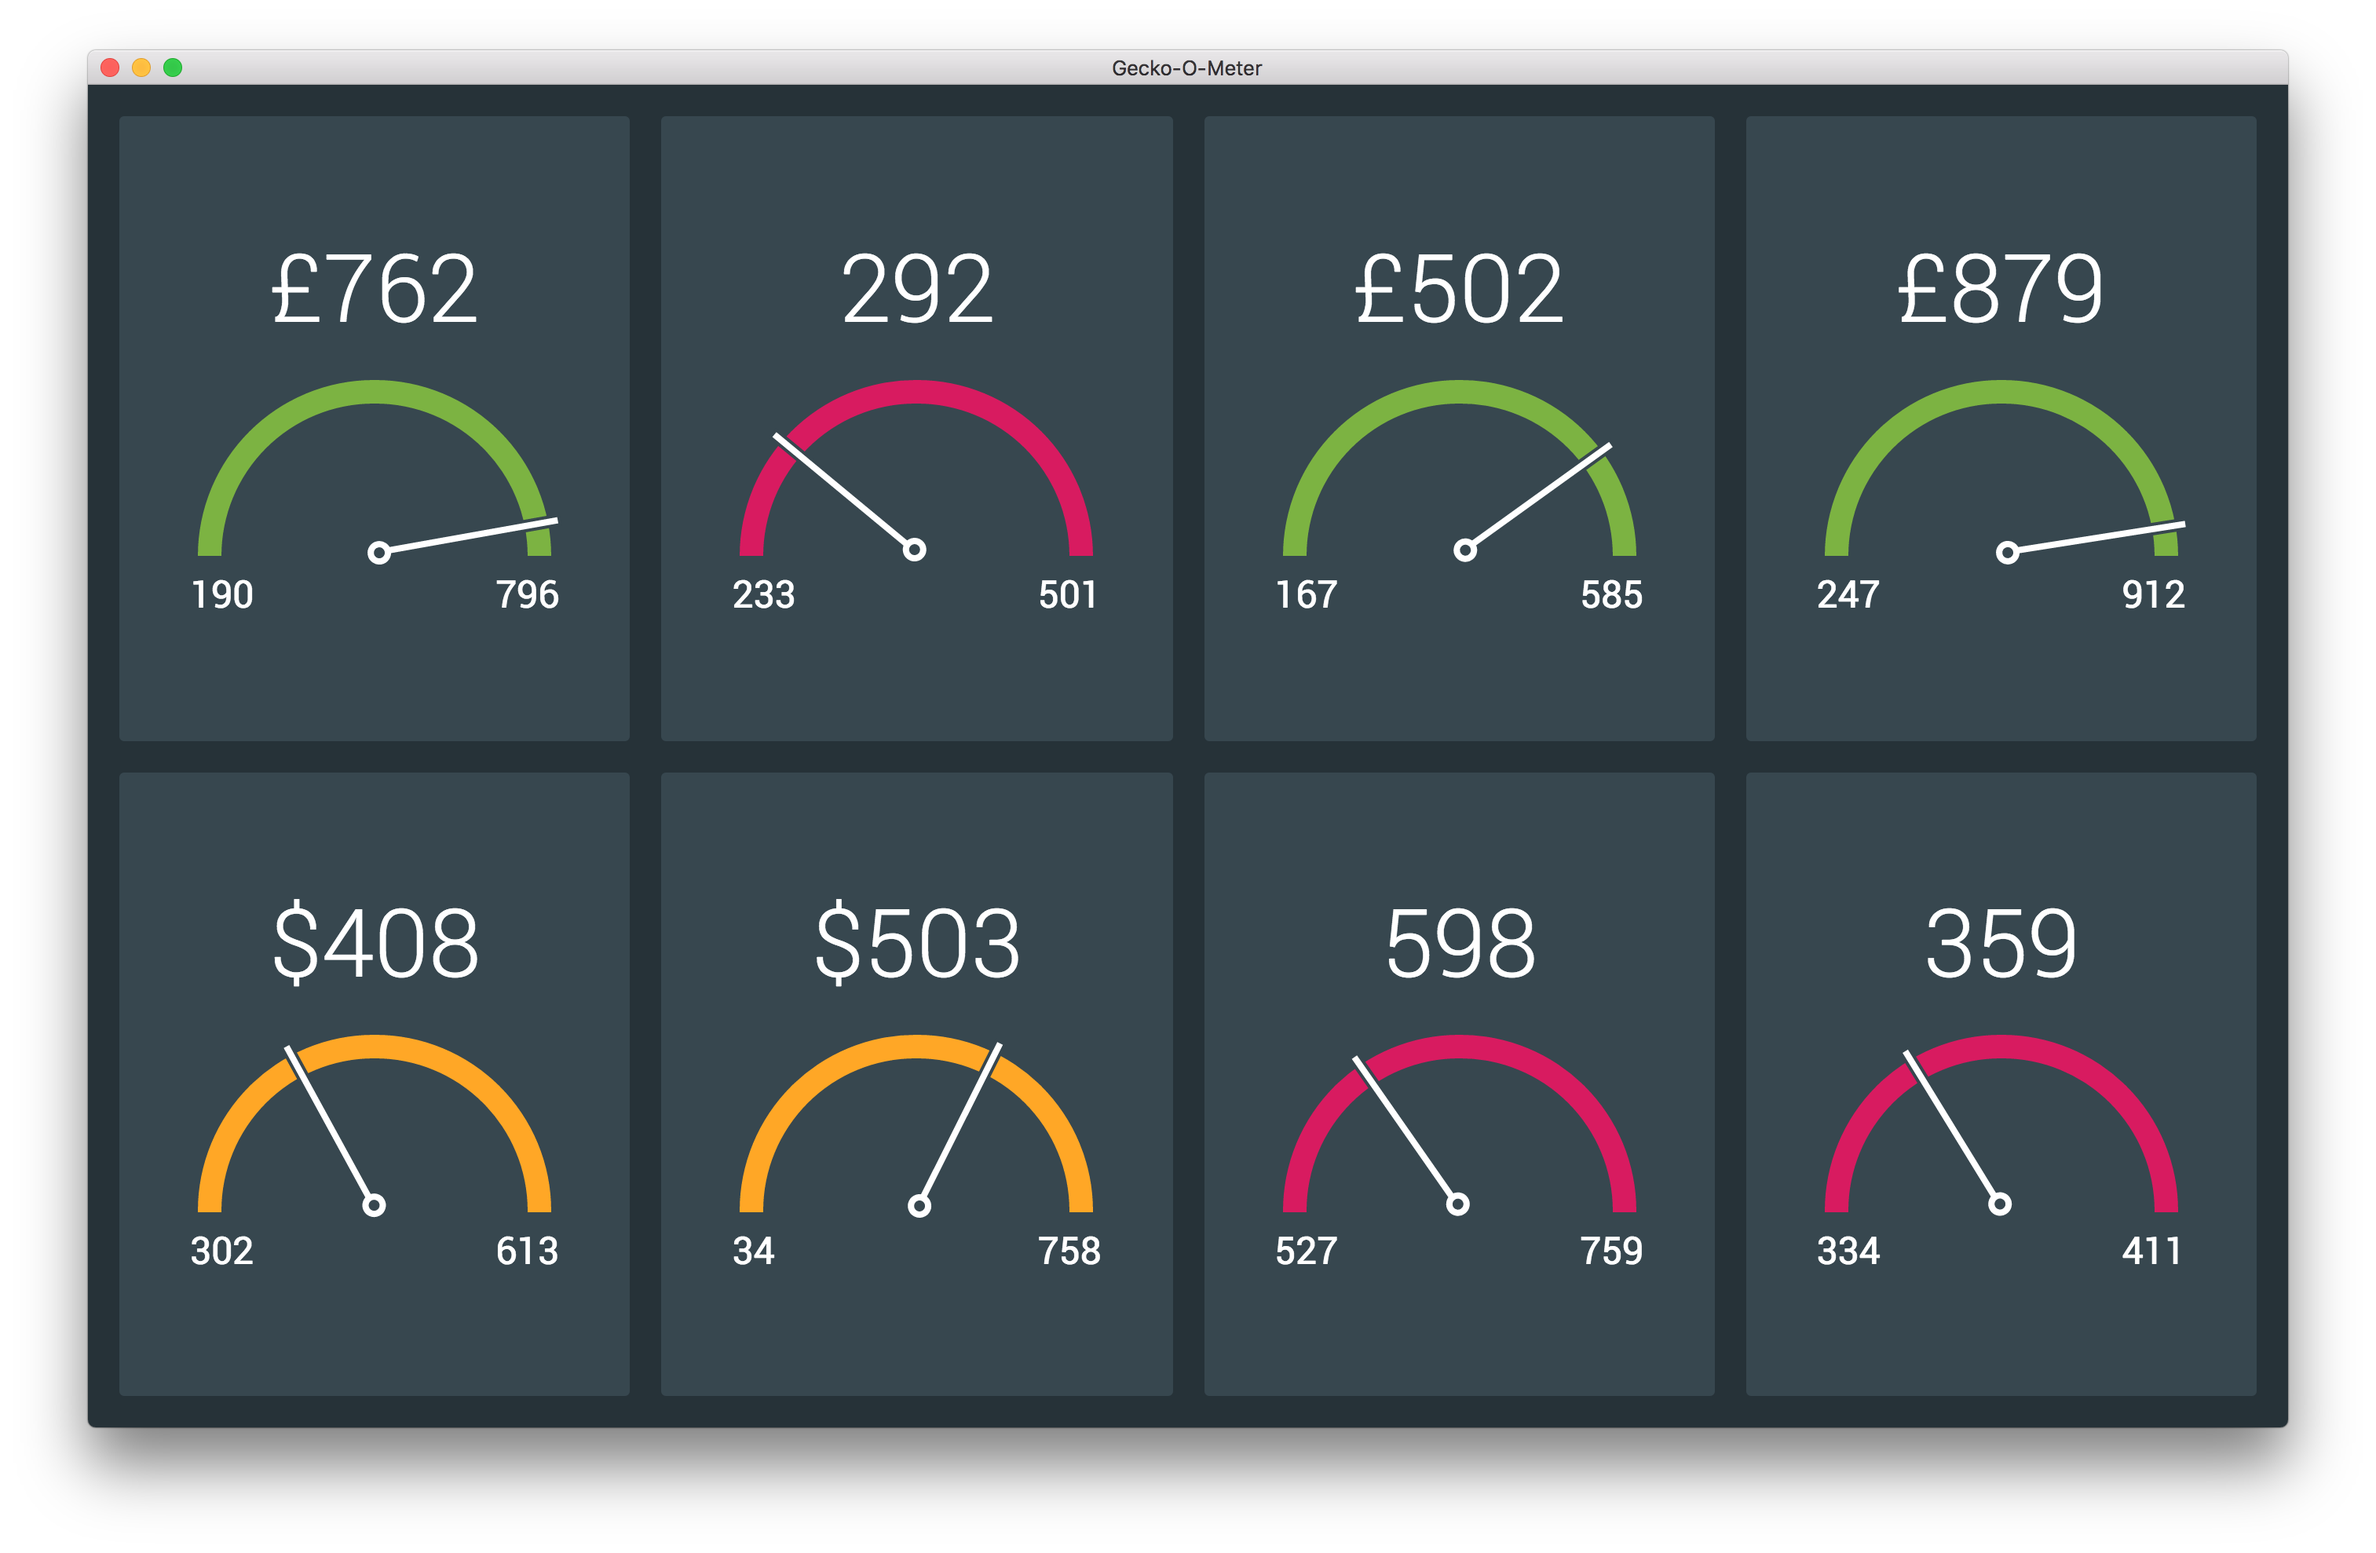
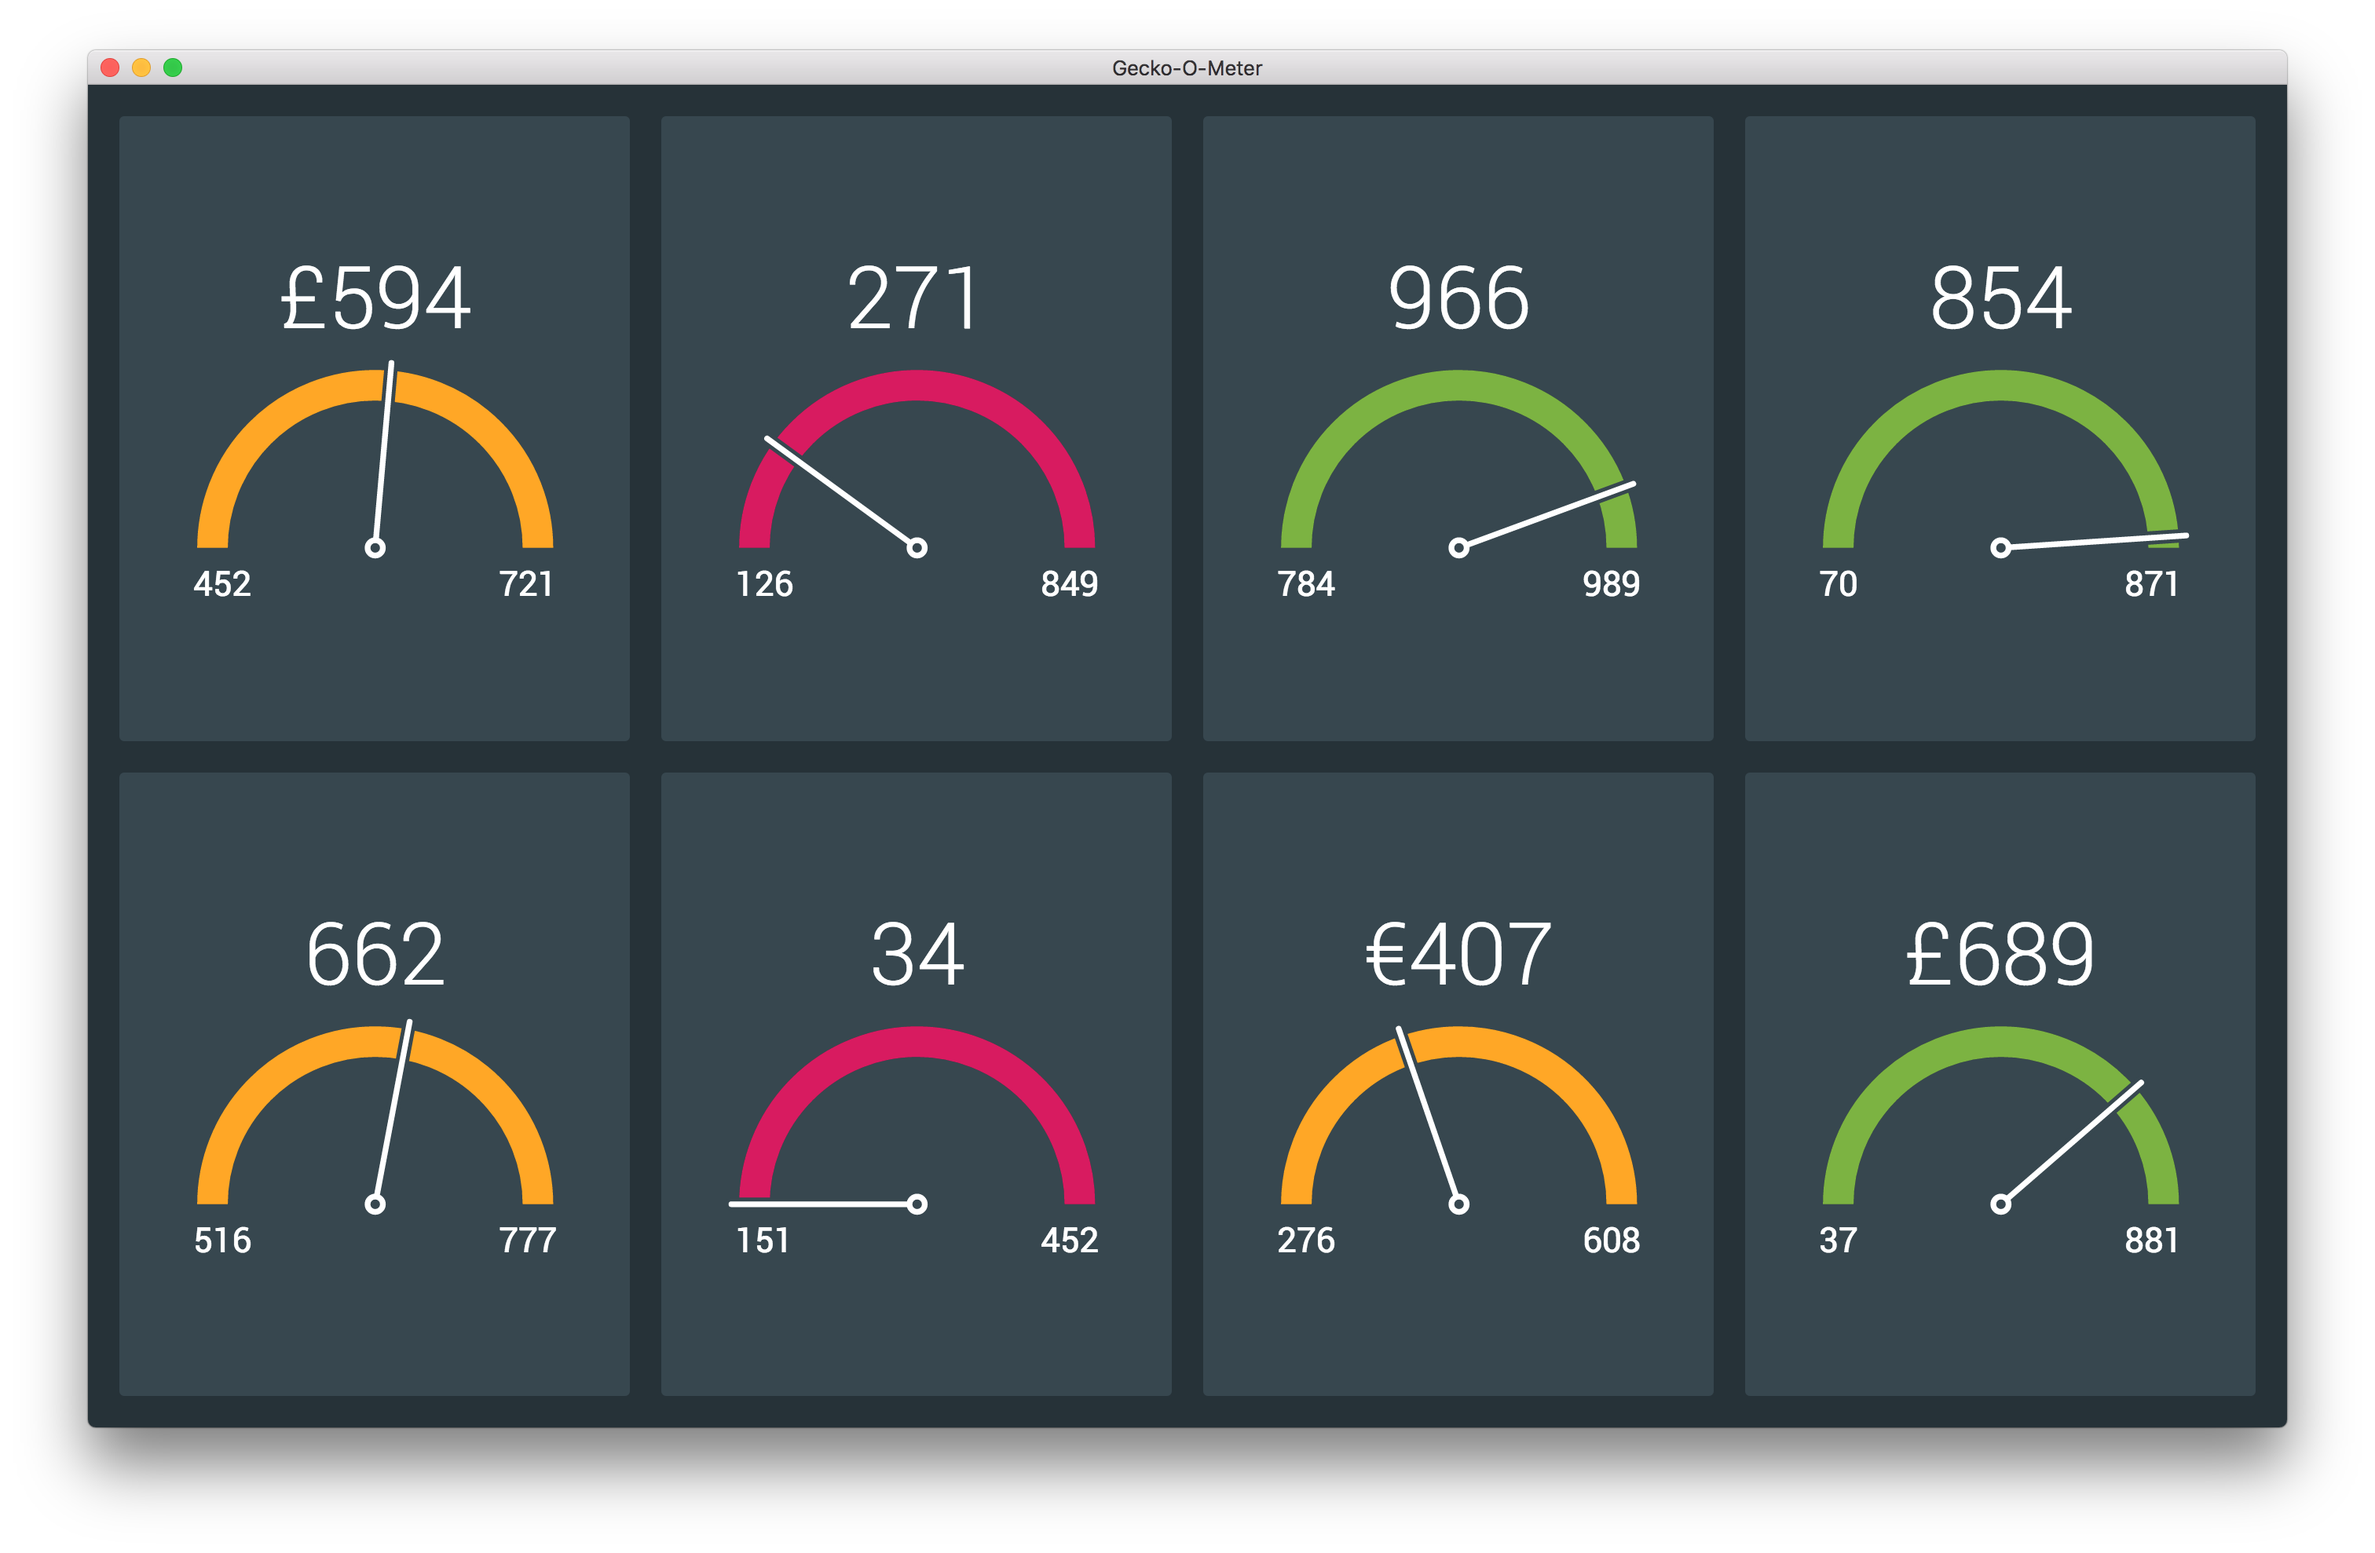
Tweak 'Dial' styles, add new screenshot

diff --git a/src/components/Dial/Dial.js b/src/components/Dial/Dial.js
@@ -50,16 +50,16 @@ const Dial = ({ min, max, value, unit, format }) => {
             <path
               className={styles.outline}
               strokeWidth={7}
-              strokeDashoffset={100}
-              strokeDasharray={100}
+              strokeDashoffset={110}
+              strokeDasharray={110}
               strokeLinecap='round'
               d='M 3 155 H 100'
             />
             <path
               className={styles.fill}
               strokeWidth={3}
-              strokeDashoffset={100}
-              strokeDasharray={100}
+              strokeDashoffset={110}
+              strokeDasharray={110}
               strokeLinecap='round'
               d='M 3 155 H 100'
             />

diff --git a/src/components/Dial/Dial.scss b/src/components/Dial/Dial.scss
@@ -17,8 +17,8 @@ $needle-overhang: 5px;
 }
 
 @keyframes draw-reverse {
-  from { stroke-dashoffset: 100 }
-  to { stroke-dashoffset: 200 }
+  from { stroke-dashoffset: 110 }
+  to { stroke-dashoffset: 220 }
 }
 
 /*

diff --git a/src/components/GeckoOMeter/GeckoOMeter.scss b/src/components/GeckoOMeter/GeckoOMeter.scss
@@ -4,7 +4,7 @@
  * Variables
  * ================================================= */
 
-$widget-max-height: 350px;
+$widget-max-height: 380px;
 $widget-min-width: 280px;
 $widget-min-height: 300px;
 
